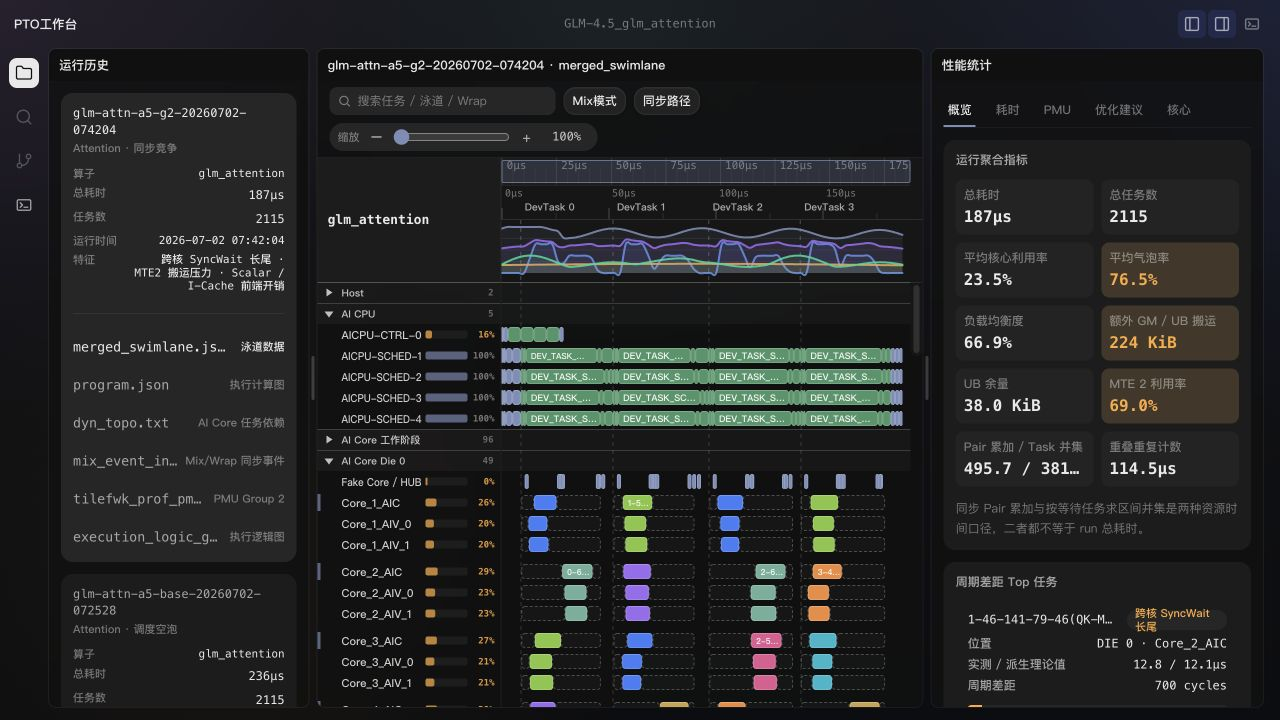
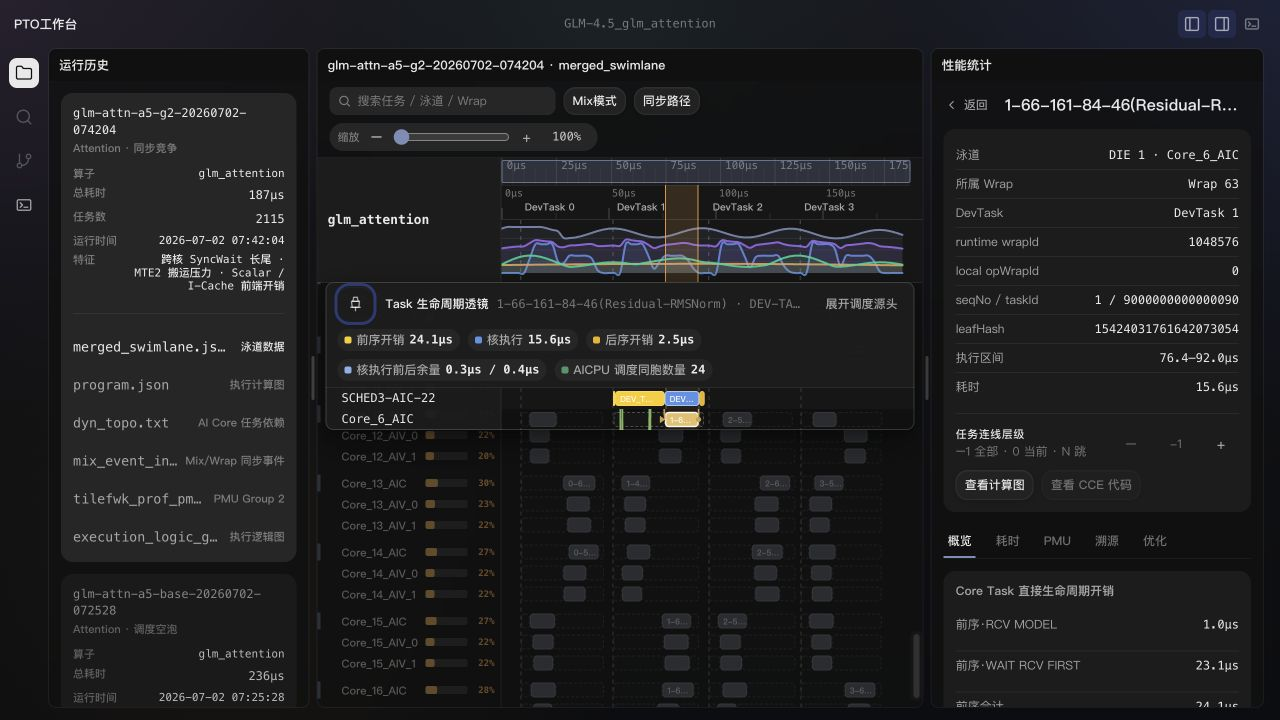
Refine PTO swimlane lifecycle lens

diff --git a/pto-swimlane-profiler/index.html b/pto-swimlane-profiler/index.html
@@ -1210,7 +1210,9 @@ body {
   box-shadow: 0 12px 34px rgba(0, 0, 0, 0.42),
     0 3px 10px rgba(0, 0, 0, 0.2),
     0 1px 0 rgba(255, 255, 255, 0.04) inset;
+  transform: translate3d(0, var(--sl-lifecycle-inline-y, 0px), 0);
   transition: box-shadow 160ms ease;
+  will-change: transform;
 }
 
 .sl-lifecycle-lens.is-inline::after {
@@ -1244,13 +1246,8 @@ body {
   background: color-mix(in srgb, var(--surface-2) 94%, transparent);
 }
 
-.sl-lifecycle-lens.is-inline .sl-lifecycle-lane[data-lifecycle-row="core"] {
-  background: var(--surface-2);
-}
-
 .sl-lifecycle-lane.is-hovered,
-.sl-lifecycle-lens.is-inline .sl-lifecycle-lane.is-hovered,
-.sl-lifecycle-lens.is-inline .sl-lifecycle-lane[data-lifecycle-row="core"].is-hovered {
+.sl-lifecycle-lens.is-inline .sl-lifecycle-lane.is-hovered {
   background: color-mix(in srgb, var(--surface-2) 94.5%, white);
 }
 
@@ -1441,28 +1438,14 @@ body {
   background: color-mix(in srgb, var(--surface-1) 95.5%, white);
 }
 
-.sl-lifecycle-lens.is-inline .sl-lifecycle-row-background[data-lifecycle-row="core"] {
-  background: var(--surface-1);
-}
-
-.sl-lifecycle-lens.is-inline .sl-lifecycle-row-background[data-lifecycle-row="core"].is-hovered {
-  background: color-mix(in srgb, var(--surface-1) 95.5%, white);
-}
-
-.sl-lifecycle-lens.is-inline[data-anchor-row="worker"] .sl-lifecycle-row-background[data-lifecycle-row="core"] {
-  background: var(--surface-1);
-}
-
-.sl-lifecycle-lens.is-inline[data-anchor-row="worker"] .sl-lifecycle-row-background[data-lifecycle-row="core"].is-hovered {
-  background: color-mix(in srgb, var(--surface-1) 95.5%, white);
-}
-
+.sl-lifecycle-lens.is-inline[data-anchor-row="core"] .sl-lifecycle-row-background[data-lifecycle-row="core"],
 .sl-lifecycle-lens.is-inline[data-anchor-row="worker"] .sl-lifecycle-row-background[data-lifecycle-row="worker"] {
-  background: var(--surface-1);
+  background: var(--ide-frame-pane-bg, var(--background));
 }
 
+.sl-lifecycle-lens.is-inline[data-anchor-row="core"] .sl-lifecycle-row-background[data-lifecycle-row="core"].is-hovered,
 .sl-lifecycle-lens.is-inline[data-anchor-row="worker"] .sl-lifecycle-row-background[data-lifecycle-row="worker"].is-hovered {
-  background: color-mix(in srgb, var(--surface-1) 95.5%, white);
+  background: color-mix(in srgb, var(--ide-frame-pane-bg, var(--background)) 95.5%, white);
 }
 
 .sl-lifecycle-canvas {
@@ -2554,6 +2537,8 @@ let lifecycleInlineGapAfterRow = -1;
 let lifecycleInlineGapAfterHeight = 0;
 let lifecyclePendingScrollDelta = 0;
 let lifecycleGapScrollPending = false;
+let lifecycleCanvasScrollLeft = null;
+let lifecycleScrollRenderFrame = 0;
 function coreLaneOrder(a, b) {
   if (a.laneGroup !== b.laneGroup) return a.idx - b.idx;
   if (a.die == null || b.die == null) return a.idx - b.idx;
@@ -3293,7 +3278,6 @@ function drawLifecycleAnchorRow(ctx, context, viewportWidth) {
   ctx.rect(0, destTop, viewportWidth, LIFECYCLE_ROW_H);
   ctx.clip();
   ctx.translate(-scrollLeft, destTop - sourceTop);
-  drawForegroundLayerMarks(ctx, MODEL.layerMarks, scale, bodyH(), viewport);
 
   for (const task of MODEL.tasks) {
     if (!isAiCoreDieTask(task) || state.expandedLaneCores.has(task.coreIdx) || taskRow(task) !== mainRow) continue;
@@ -3387,6 +3371,25 @@ function drawLifecycleCanvas(context = lifecycleContext()) {
     ctx.setLineDash([]);
   }
 
+  let renderedDevTaskGuides = 0;
+  if (lifecycleLens.dataset.placement === 'inline') {
+    ctx.save();
+    ctx.translate(-scrollLeft, 0);
+    renderedDevTaskGuides = drawForegroundLayerMarks(
+      ctx,
+      MODEL.layerMarks,
+      scale,
+      height,
+      {
+        left: scrollLeft,
+        top: 0,
+        right: scrollLeft + viewportWidth,
+        bottom: height,
+      },
+    );
+    ctx.restore();
+  }
+
   const anchorRender = drawLifecycleAnchorRow(ctx, context, viewportWidth);
   let renderedTaskBars = anchorRender.taskBars;
   renderedEnvelopeMargins += anchorRender.envelopeMargins;
@@ -3419,6 +3422,16 @@ function drawLifecycleCanvas(context = lifecycleContext()) {
   lifecycleCanvas.dataset.renderedRows = String(context.rows.length);
   lifecycleCanvas.dataset.renderedTaskBars = String(renderedTaskBars);
   lifecycleCanvas.dataset.renderedEnvelopeMargins = String(renderedEnvelopeMargins);
+  lifecycleCanvas.dataset.renderedDevTaskGuides = String(renderedDevTaskGuides);
+  lifecycleCanvasScrollLeft = scrollLeft;
+}
+
+function scheduleLifecycleScrollRender() {
+  if (lifecycleCanvasScrollLeft === bodyWrap.scrollLeft || lifecycleScrollRenderFrame) return;
+  lifecycleScrollRenderFrame = window.requestAnimationFrame(() => {
+    lifecycleScrollRenderFrame = 0;
+    drawLifecycleCanvas();
+  });
 }
 
 const LIFECYCLE_PLACEMENT_ICON = {
@@ -3447,6 +3460,7 @@ function applyLifecyclePlacement(context = lifecycleContext()) {
   if (state.lifecyclePlacement !== 'inline') {
     lifecycleLens.classList.remove('is-inline', 'is-placement-fallback');
     lifecycleLens.style.removeProperty('bottom');
+    lifecycleLens.style.removeProperty('--sl-lifecycle-inline-y');
     lifecycleLens.dataset.placement = 'docked';
     lifecycleLens.dataset.anchor = 'flow';
     lifecycleLens.dataset.edgeOffset = '0';
@@ -3457,13 +3471,15 @@ function applyLifecyclePlacement(context = lifecycleContext()) {
   const wasInline = lifecycleLens.classList.contains('is-inline');
   lifecycleLens.classList.remove('is-placement-fallback');
   lifecycleLens.classList.add('is-inline');
-  if (!wasInline) lifecycleLens.style.bottom = '0px';
+  lifecycleLens.style.removeProperty('bottom');
+  if (!wasInline) lifecycleLens.style.setProperty('--sl-lifecycle-inline-y', '0px');
   const lensHeight = lifecycleLens.getBoundingClientRect().height;
   const availableHeight = bodyWrap.clientHeight;
   if (lensHeight + 8 > availableHeight) {
     lifecycleLens.classList.remove('is-inline');
     lifecycleLens.classList.add('is-placement-fallback');
     lifecycleLens.style.removeProperty('bottom');
+    lifecycleLens.style.removeProperty('--sl-lifecycle-inline-y');
     lifecycleLens.dataset.placement = 'docked-fallback';
     lifecycleLens.dataset.anchor = 'flow';
     lifecycleLens.dataset.edgeOffset = '0';
@@ -3489,8 +3505,8 @@ function applyLifecyclePlacement(context = lifecycleContext()) {
   const minTop = bodyTop;
   const maxTop = Math.max(minTop, bodyTop + availableHeight - lensHeight);
   const top = Math.min(maxTop, Math.max(minTop, desiredTop));
-  const bottom = Math.max(0, shellRect.height - top - lensHeight);
-  lifecycleLens.style.bottom = `${Math.round(bottom)}px`;
+  const restingTop = shellRect.height - lensHeight;
+  lifecycleLens.style.setProperty('--sl-lifecycle-inline-y', `${Math.round(top - restingTop)}px`);
   lifecycleLens.dataset.placement = 'inline';
   lifecycleLens.dataset.anchor = Math.abs(top - desiredTop) < 1 ? 'exact' : 'edge';
   lifecycleLens.dataset.edgeOffset = String(top - desiredTop);
@@ -3563,6 +3579,7 @@ function renderLifecycleLens() {
     lifecycleLens.hidden = true;
     lifecycleLens.classList.remove('is-inline', 'is-placement-fallback');
     lifecycleLens.style.removeProperty('bottom');
+    lifecycleLens.style.removeProperty('--sl-lifecycle-inline-y');
     lifecycleLens.removeAttribute('data-anchor-row');
     lifecycleHitSpecs = [];
     lifecycleHoverTask = null;
@@ -5320,6 +5337,8 @@ function hitTest(px, py) {
    8. 交互
    ============================================================ */
 bodyWrap.addEventListener('scroll', () => {
+  // 先更新就地透镜的合成层位置，垂直滚动时不重绘其 Canvas。
+  if (!lifecycleGapScrollPending) applyLifecyclePlacement();
   axisWrap.scrollLeft = bodyWrap.scrollLeft;
   overviewWrap.scrollLeft = bodyWrap.scrollLeft;
   laneWrap.scrollTop = bodyWrap.scrollTop;
@@ -5331,8 +5350,7 @@ bodyWrap.addEventListener('scroll', () => {
   syncGlobalRulerBrush();
   renderSelectedTaskProjection();
   hideOverviewTooltip();
-  drawLifecycleCanvas();
-  if (!lifecycleGapScrollPending) applyLifecyclePlacement();
+  scheduleLifecycleScrollRender();
   scheduleCrispTaskLayer();
 });
 function forwardLaneWheel(event, targetWrap) {
@@ -5344,10 +5362,13 @@ function forwardLaneWheel(event, targetWrap) {
   const beforeTop = targetWrap.scrollTop;
   targetWrap.scrollLeft += deltaX;
   targetWrap.scrollTop += deltaY;
-  if (targetWrap.scrollLeft !== beforeLeft || targetWrap.scrollTop !== beforeTop) event.preventDefault();
+  if (targetWrap.scrollLeft !== beforeLeft || targetWrap.scrollTop !== beforeTop) {
+    if (targetWrap === bodyWrap && !lifecycleGapScrollPending) applyLifecyclePlacement();
+    event.preventDefault();
+  }
 }
 laneWrap.addEventListener('wheel', (event) => forwardLaneWheel(event, bodyWrap), { passive: false });
-lifecycleCanvasWrap?.addEventListener('wheel', (event) => forwardLaneWheel(event, bodyWrap), { passive: false });
+lifecycleLens?.addEventListener('wheel', (event) => forwardLaneWheel(event, bodyWrap), { passive: false });
 lifecyclePlacementToggle?.addEventListener('click', () => {
   state.lifecyclePlacement = state.lifecyclePlacement === 'inline' ? 'docked' : 'inline';
   layout();
@@ -5361,11 +5382,16 @@ lifecycleSourceToggle?.addEventListener('click', () => {
   layout();
   if (preservedBottom != null && lifecycleLens.dataset.placement === 'inline') {
     const lensRect = lifecycleLens.getBoundingClientRect();
-    const currentBottom = lifecycleLens.getBoundingClientRect().bottom;
-    const currentInset = Number.parseFloat(lifecycleLens.style.bottom) || 0;
+    const currentBottom = lensRect.bottom;
+    const currentTranslate = Number.parseFloat(
+      lifecycleLens.style.getPropertyValue('--sl-lifecycle-inline-y'),
+    ) || 0;
     const bottomDelta = currentBottom - preservedBottom;
     if (lensRect.top - bottomDelta >= bodyWrap.getBoundingClientRect().top) {
-      lifecycleLens.style.bottom = `${currentInset + bottomDelta}px`;
+      lifecycleLens.style.setProperty(
+        '--sl-lifecycle-inline-y',
+        `${Math.round(currentTranslate - bottomDelta)}px`,
+      );
       lifecycleLens.dataset.anchor = 'bottom';
     }
   }

diff --git a/launch.html b/launch.html
@@ -938,7 +938,7 @@ body {
         </div>
       </div>
       <div class="card-frame-body">
-        <img class="card-poster--contain" src="assets/pto-swimlane-profiler.png?v=20260807" alt="PTO性能分析 静态预览" loading="lazy" decoding="async">
+        <img class="card-poster--contain" src="assets/pto-swimlane-profiler.png?v=20260807-r2" alt="PTO性能分析 静态预览" loading="lazy" decoding="async">
       </div>
     </article>
 

diff --git a/launch-v2.html b/launch-v2.html
@@ -1318,7 +1318,7 @@ const launchItems = [
     status: "hi-fi",
     desc: "通过同步竞争、调度空泡与流水失衡三类场景，展示 PTO 泳道性能分析与下钻工作流。",
     href: "pto-swimlane-profiler/index.html",
-    preview: "assets/pto-swimlane-profiler.png?v=20260807",
+    preview: "assets/pto-swimlane-profiler.png?v=20260807-r2",
     fit: "contain",
     tags: ["Swimlane", "Profiler"]
   },

diff --git a/CHANGELOG.md b/CHANGELOG.md
@@ -1,5 +1,7 @@
 # PTO Changelog
 
+- 2026-08-07 `pto-swimlane-profiler/`: 同步 PyPTOUX 最新增量，优化就地生命周期透镜的滚动定位与 Canvas 重绘节流，修正 DevTask 引导线和透镜行背景对齐；更新 16:9 启动台封面。
+
 - 2026-08-07 `pto-swimlane-profiler/`: 同步 PyPTOUX 最新 L2 / schema-generated / share-safe 稳定版，补齐运行历史、PMU 证据、优化建议、核心下钻与生命周期视图；发布资源继续复用 `vendor/pto-design-system`，并更新 16:9 启动台封面。
 
 - 2026-08-07 `Profiling_Insight_and_Tool/training-run-twin-standalone/config-relation-observer.*`: 数据流播放改为**循环重播**，并把步文案的分段顺序与术语对齐泳道。① 播完不再 `stopFlow()` 自停，而是 `flowIndex = 0` 从头再走一遍——一个 step 本来就是循环往复的，训练跑的是成千上万个 step，停在收尾格反倒读作"训练结束了"；退出只由用户点「退出」触发。回绕**必须先 `lanesReset()` 并摘掉 `is-flow-optimizer`**：dW 填块、显存面积、残差流实线都是整趟攒下来的量，不清就把第二轮画在第一轮的残留上（dW 只增不减，叠两轮直接顶满）。② 新增 `noteSegments()`，分段一律按 `FLOW_LANES` 自上而下的顺序重排，不按 `flowNote` 里写的先后——这排色点就是下面 6 条线的图例，读者拿它当索引（看到第 2 枚点就往第 2 条线上找），而反向那句原先把「路由」甩到最末、轴上它是第 2 条，对应关系就废了。在这里统一排而不是逐句手写：`flowNote` 有 9 条分支且还会加，人肉维护迟早再错一次；挂不到泳道的段沉底，兜底 order 取 `FLOW_LANES.length` 而不是 `Infinity`（两个 `Infinity` 相减得 `NaN`，比较器返回 `NaN` 时排序未定义）。`noteToHtml` 与新增的 `noteToText`（挂 title 的纯文本份）共用它，否则 title 与眼前顺序对不上。③ 段名与刻度提示改用全称：`dX`/`dW` → `层间梯度 dX`/`权重梯度 dW`（这行文案往往是读者第一次遇到这两个符号的地方，缩写读不出"梯度传给谁"），`L{n}` → `Layer {n}`；`NOTE_LANE_KEYS` 的倒序匹配前提随之变成「权重梯度 dW」与「权重W」共享前缀。④ 反向 5 条文案的 dW 段一律补「只算不改」——「反向按梯度改了每层权重」是最容易带进来的错觉，反向只算 dX 与 dW，权重一个字节不动（链式法则要求整趟反向踩在同一份权重快照上），唯一一次改写在收尾格，两边措辞对上；MoE 反向把「路由 只读前向那张表」提到段首并写成"照它把梯度发回同一批专家"。MoE 前向的路由段补全 Top-K 打分与分派表的说法（腾出的宽度来自摘掉的重复子句）。⑤ 暂停标记 `.cro-flow-lanes.is-paused::after`（「· 已暂停」）撤掉：暂停态已由按钮自身表达（图标翻回 ▶ + 文案「继续」），进度行再挂一次是同一件事说两遍。⑥ 事件横幅的关闭键从 `&#10005;` 文本换成与 rail 同源的 SVG（收到 14px）：文本走基线排版，`place-items:center` 居中的是含 descender 空白的行盒，而 ✕ 没有下伸笔画，视觉上恒偏下半个 descender。
